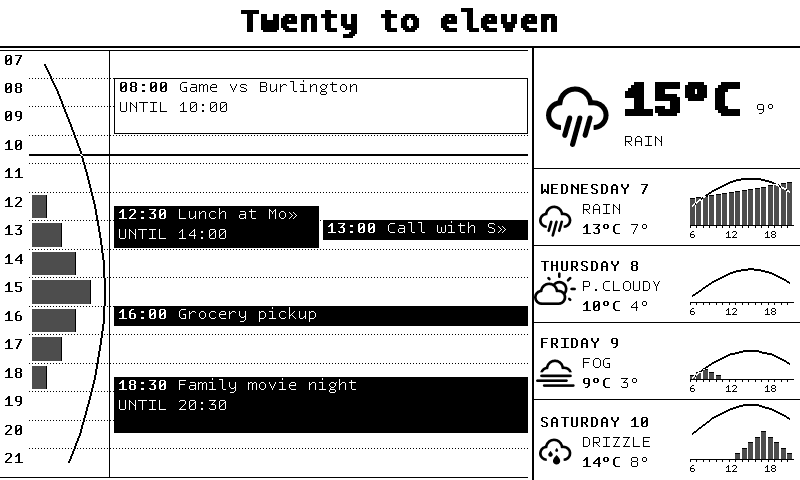
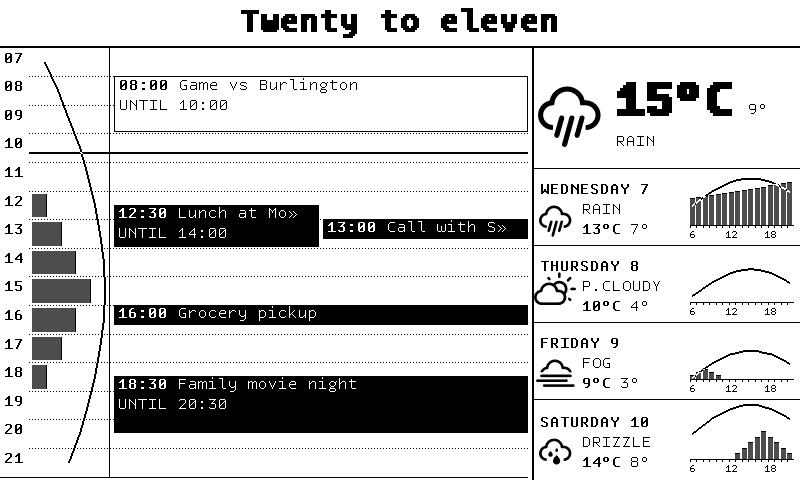
fix(day-timeline): one rule under the clock and a lined-up right column
The composed day-timeline screen drew two rules under the clock on the
left: the separator's, and the day-timeline's own solid rule at the
window's opening edge two pixels below it. The widget now rules that
edge only when its all-day strip or earlier note sits above the grid;
otherwise the grid starts at the widget's top and whatever sits above it
closes it off.

today-weather's padding now matches weather-ahead's, so stacked in the
right column its icon starts where the rows below do, as the design
draws them. Its minimum width drops from 254 to 238 px.

Claude-Session: https://claude.ai/code/session_01PesFTRe24Aa4wMGyCrq8fA

diff --git a/internal/inkwell/widgets/daytimeline/daytimeline_test.go b/internal/inkwell/widgets/daytimeline/daytimeline_test.go
@@ -570,8 +570,8 @@ func TestWidget_ListsAllDayEventsInAStripAboveTheGrid(t *testing.T) {
 				if !l.AllDay.Empty() {
 					t.Fatalf("strip %v with nothing to list", l.AllDay)
 				}
-				if l.Grid.Min.Y != testBounds.Min.Y+gridPadY {
-					t.Errorf("grid starts at %d with no strip, want %d", l.Grid.Min.Y, testBounds.Min.Y+gridPadY)
+				if l.Grid.Min.Y != testBounds.Min.Y {
+					t.Errorf("grid starts at %d with no strip, want the widget's top, %d", l.Grid.Min.Y, testBounds.Min.Y)
 				}
 				return
 			}
@@ -675,7 +675,9 @@ func sameIn(a, b *image.Paletted, r image.Rectangle) bool {
 }
 
 // Every hour in the window gets a label in the gutter and a rule across
-// the event column, and the window's last edge gets a rule too.
+// the event column, and the window's last edge gets a rule too. The
+// window's opening edge is the widget's top, ruled only when a band sits
+// above it (see TestWidget_TopEdge).
 func TestWidget_DrawsAnHourGrid(t *testing.T) {
 	tests := []struct {
 		label string
@@ -703,7 +705,7 @@ func TestWidget_DrawsAnHourGrid(t *testing.T) {
 				t.Errorf("rule between labels and events is %d/%d px", n, l.Grid.Dy())
 			}
 
-			for h := 0; h <= tt.win.EndHour-tt.win.StartHour; h++ {
+			for h := 1; h <= tt.win.EndHour-tt.win.StartHour; h++ {
 				y := tl.y(start.Add(time.Duration(h) * time.Hour))
 				if countIndexIn(frame, image.Rect(l.Events.Min.X, y, l.Events.Max.X, y+1), widget.PaperBlack) == 0 {
 					t.Errorf("no rule across the events at hour %d (y=%d)", tt.win.StartHour+h, y)
@@ -722,6 +724,58 @@ func TestWidget_DrawsAnHourGrid(t *testing.T) {
 				if countIndexIn(frame, row, widget.PaperBlack) == 0 {
 					t.Errorf("no label for hour %d", tt.win.StartHour+h)
 				}
+			}
+		})
+	}
+}
+
+// The window's opening edge gets a solid rule only when the widget has
+// its own band above the grid to close off. With nothing above, the grid
+// starts at the widget's top edge and draws no rule there: whatever sits
+// above the widget, a screen's separator or the panel's edge, already
+// closes it, and a second rule just under a separator reads as a double
+// line. The rule between the labels and the events then runs up to the
+// widget's edge, so it meets that separator.
+func TestWidget_TopEdge(t *testing.T) {
+	ruleX := testBounds.Min.X + gutterW + laneW
+	events := image.Rect(ruleX+ruleW+eventsPadX, 0, testBounds.Max.X-eventsPadX, 0)
+	tests := []struct {
+		label  string
+		events []ical.Event
+		// ruleY is the row the solid top edge rule is on, or -1 for none.
+		ruleY int
+	}{
+		{label: "nothing above the grid", ruleY: -1},
+		{
+			label:  "an earlier note above",
+			events: []ical.Event{span("Gym", at(5, 0), at(6, 0))},
+			ruleY:  testBounds.Min.Y + noteH(),
+		},
+		{
+			label:  "an all-day strip above",
+			events: []ical.Event{allDay("Car in for service")},
+			ruleY:  testBounds.Min.Y + stripH(1) + gridPadY,
+		},
+	}
+	for _, tt := range tests {
+		t.Run(tt.label, func(t *testing.T) {
+			// Late in the evening, so no now marker crosses the top.
+			w := New(testBounds, daydata.InMemory(tt.events, nil), fixedClock(at(23, 30)), defaultConfig())
+			frame := renderToFrame(t, w)
+
+			if tt.ruleY < 0 {
+				top := image.Rect(events.Min.X, testBounds.Min.Y, events.Max.X, testBounds.Min.Y+2)
+				if n := countIndexIn(frame, top, widget.PaperBlack); n != 0 {
+					t.Errorf("%d px inked across the events' top rows, want no rule", n)
+				}
+				if frame.ColorIndexAt(ruleX, testBounds.Min.Y) != widget.PaperBlack {
+					t.Errorf("rule between labels and events doesn't reach the widget's top edge")
+				}
+				return
+			}
+			row := image.Rect(testBounds.Min.X, tt.ruleY, events.Max.X, tt.ruleY+1)
+			if n := countIndexIn(frame, row, widget.PaperBlack); n != row.Dx() {
+				t.Errorf("top edge rule at y=%d is %d/%d px", tt.ruleY, n, row.Dx())
 			}
 		})
 	}
@@ -1029,9 +1083,10 @@ func TestWidget_CountsEventsOutsideTheWindow(t *testing.T) {
 			if tt.wantLater != "" && !noteIn(frame, l.Later, l.Events.Min.X, tt.wantLater) {
 				t.Errorf("no %q note below the grid", tt.wantLater)
 			}
-			// Without a note the grid takes the height, and its edge
-			// rules sit at the bounds' padding.
-			if tt.wantEarlier == "" && l.Grid.Min.Y != testBounds.Min.Y+gridPadY {
+			// Without a note the grid takes the height: it starts at
+			// the bounds' top, unruled, and ends at the bottom rule's
+			// padding.
+			if tt.wantEarlier == "" && l.Grid.Min.Y != testBounds.Min.Y {
 				t.Errorf("grid starts at %d with nothing earlier", l.Grid.Min.Y)
 			}
 			if tt.wantLater == "" && l.Grid.Max.Y != testBounds.Max.Y-gridPadY {

diff --git a/internal/inkwell/example_config_test.go b/internal/inkwell/example_config_test.go
@@ -153,6 +153,72 @@ func TestExampleConfig_DayTimelineScreen(t *testing.T) {
 	testutil.AssertGoldenPNG(t, frame)
 }
 
+// Under the clock band the left column shows one rule, the separator's,
+// as the right column does: the day-timeline draws no rule of its own
+// along its top edge when nothing of its own sits above its grid.
+func TestExampleConfig_DayTimelineScreen_OneRuleUnderTheClock(t *testing.T) {
+	_, frame := renderExampleScreen(t, "day-timeline", exampleUpstream())
+
+	for _, x := range []int{300, 700} {
+		var solid []int
+		for y := 40; y < 60; y++ {
+			if frame.ColorIndexAt(x, y) == widget.PaperBlack && frame.ColorIndexAt(x+1, y) == widget.PaperBlack {
+				solid = append(solid, y)
+			}
+		}
+		if !slices.Equal(solid, []int{46, 47}) {
+			t.Errorf("rows inked under the clock at x=%d: %v, want only the separator's [46 47]", x, solid)
+		}
+	}
+}
+
+// The right column's two widgets share a left edge: today-weather's icon
+// starts where weather-ahead's rows do, as the design draws them. Both
+// are measured on a rain icon: today's, and the first of weather-ahead's
+// four rows (a partly cloudy sun further down runs past its box).
+func TestExampleConfig_DayTimelineScreen_RightColumnLinesUp(t *testing.T) {
+	screen, frame := renderExampleScreen(t, "day-timeline", exampleUpstream())
+
+	left := map[string]int{}
+	for _, w := range screen.Widgets() {
+		b := w.Bounds()
+		switch kind := fmt.Sprintf("%T", w); kind {
+		case "*todayweather.Widget":
+			left[kind] = leftmostInk(frame, b)
+		case "*weatherahead.Widget":
+			b.Max.Y = b.Min.Y + b.Dy()/4
+			left[kind] = leftmostInk(frame, b)
+		}
+	}
+	today, ahead := left["*todayweather.Widget"], left["*weatherahead.Widget"]
+	if d := today - ahead; d < -2 || d > 2 {
+		t.Errorf("today-weather starts at x=%d, weather-ahead at x=%d; want them within 2 px", today, ahead)
+	}
+}
+
+// leftmostInk is the first column of r with anything but paper in it,
+// leaving out rules drawn across r's whole width, or r.Max.X when there
+// is none.
+func leftmostInk(frame *image.Paletted, r image.Rectangle) int {
+	left := r.Max.X
+	for y := r.Min.Y; y < r.Max.Y; y++ {
+		first, black := r.Max.X, 0
+		for x := r.Min.X; x < r.Max.X; x++ {
+			switch frame.ColorIndexAt(x, y) {
+			case widget.PaperWhite:
+				continue
+			case widget.PaperBlack:
+				black++
+			}
+			first = min(first, x)
+		}
+		if black < r.Dx() {
+			left = min(left, first)
+		}
+	}
+	return left
+}
+
 // The example rotates through the new screens, day-timeline first, and
 // each one loads with the example's bounds, tiles the panel and draws in
 // every widget. weekly-calendar is no longer part of it.

diff --git a/internal/inkwell/widgets/daytimeline/layout.go b/internal/inkwell/widgets/daytimeline/layout.go
@@ -8,8 +8,9 @@ import (
 )
 
 const (
-	// gridPadY is the paper above and below the grid when no note sits
-	// there, so the edge rules don't touch a neighbour's.
+	// gridPadY is the paper between the grid's solid edge rules and
+	// whatever sits beyond them in the widget's bounds, so a rule doesn't
+	// touch the all-day strip's text or a neighbour's rule.
 	gridPadY = 2
 	// gutterW is the hour-label column: two digits and a little paper on
 	// each side.
@@ -77,6 +78,13 @@ type layout struct {
 	Lane image.Rectangle
 	// Events is the column the blocks are drawn in.
 	Events image.Rectangle
+	// TopRule is whether the window's opening edge gets a solid rule: only
+	// when the all-day strip or the earlier note sits above the grid and
+	// needs closing off. Otherwise the grid starts at the widget's top
+	// edge with no rule, because what sits above the widget (a screen's
+	// separator, or the panel's edge) already closes it, and a second
+	// rule just under a separator reads as a double line.
+	TopRule bool
 }
 
 // computeLayout splits the widget's bounds. The all-day strip comes off
@@ -89,10 +97,15 @@ func computeLayout(bounds image.Rectangle, s sections) layout {
 		l.AllDay = image.Rect(bounds.Min.X, bounds.Min.Y, bounds.Max.X, bounds.Min.Y+stripH(s.AllDay))
 		agenda.Min.Y = l.AllDay.Max.Y
 	}
-	top, bottom := agenda.Min.Y+gridPadY, agenda.Max.Y-gridPadY
+	top, bottom := agenda.Min.Y, agenda.Max.Y-gridPadY
+	if s.AllDay > 0 {
+		top += gridPadY
+		l.TopRule = true
+	}
 	if s.Earlier {
 		l.Earlier = image.Rect(agenda.Min.X, agenda.Min.Y, agenda.Max.X, agenda.Min.Y+noteH())
 		top = l.Earlier.Max.Y
+		l.TopRule = true
 	}
 	if s.Later {
 		l.Later = image.Rect(agenda.Min.X, agenda.Max.Y-noteH(), agenda.Max.X, agenda.Max.Y)

diff --git a/internal/inkwell/widgets/daytimeline/grid.go b/internal/inkwell/widgets/daytimeline/grid.go
@@ -19,9 +19,10 @@ const (
 )
 
 // drawGrid draws the hour grid: a two-digit label for each hour in the
-// gutter, a dotted rule across the lane and events at each hour, solid
-// rules at the window's edges, and a rule down the grid between the
-// labels and lane on its left and the events on its right.
+// gutter, a dotted rule across the lane and events at each hour, a solid
+// rule at the window's end and, when a band of the widget's own sits above
+// the grid, at its start, and a rule down the grid between the labels and
+// lane on its left and the events on its right.
 //
 // When the rows are shorter than a line of text, as a whole-day window
 // makes them, every other hour is labelled so the labels don't run into
@@ -34,9 +35,12 @@ func drawGrid(frame *image.Paletted, l layout, tl timeline, win Window) {
 	}
 	for h := 0; h <= hours; h++ {
 		y := tl.y(hourAt(tl.start, h))
-		if h == 0 || h == hours {
+		switch {
+		case h == 0 && !l.TopRule:
+			// Closed off by whatever sits above the widget.
+		case h == 0 || h == hours:
 			drawkit.DrawHLine(frame, l.Grid.Min.X, l.Events.Max.X, y, widget.PaperBlack)
-		} else {
+		default:
 			for x := l.Gutter.Max.X; x < l.Events.Max.X; x += dotEvery {
 				drawkit.DrawHLine(frame, x, x+1, y, widget.PaperBlack)
 			}

diff --git a/internal/inkwell/widgets/todayweather/todayweather.go b/internal/inkwell/widgets/todayweather/todayweather.go
@@ -25,7 +25,9 @@ var _ widget.Widget = (*Widget)(nil)
 // screens read alike: a 58 px icon, the high at 3x and the low and the
 // condition at body size.
 const (
-	padX     = 14
+	// padX is weather-ahead's, so stacked in one column, as on the
+	// day-timeline screen, today's icon starts where the rows below do.
+	padX     = 6
 	padY     = 8
 	iconSize = 58
 	// iconGap is wider than today-hero's: some glyphs (partly cloudy's

diff --git a/docs/guides/configuration.md b/docs/guides/configuration.md
@@ -640,6 +640,11 @@ window are not drawn; a "+N EARLIER" note above the grid or a
 "+N LATER" note below it counts them, and each note takes height only
 when there is something to count.
 
+The grid's top edge is ruled only when the all-day strip or the
+"+N EARLIER" note sits above it. Otherwise the grid starts at the
+widget's top with no rule, so a separator placed above the widget, as
+under the clock band on the day-timeline screen, is the only line there.
+
 Between the hour labels and the events runs the weather lane: today's
 forecast for the same hours, one row per hour of the window. The chance
 of precipitation each hour is a bar growing to the right, and the
@@ -689,7 +694,7 @@ the condition name beneath. It is today-hero's weather block at the same
 sizes, so the two read alike. It draws no events and no chart, and has
 its own refresh cadence, separate from the widgets around it.
 
-It needs at least 254 × 108 px, the room for the widest high there is
+It needs at least 238 × 108 px, the room for the widest high there is
 ("-12°C"). Below that it logs and draws nothing rather than spilling
 onto its neighbours. When the high and low are both wide, the low takes
 its own line under the high. A third of the panel's width, 266 px, is
@@ -963,7 +968,7 @@ so it is the one shown at startup, and the one that stays if you remove
 |--------|--------|-----------|-------|
 | [`fuzzy_clock`](#fuzzy_clock) | `[0, 0, 800, 46]` | `"5m"` | `scale: 2`, the largest whose longest phrase fits 800 px. |
 | [`separator`](#separator) | `[0, 46, 800, 48]` | `"static"` | 2 px under the clock band. |
-| [`day-timeline`](#day-timeline) | `[0, 48, 532, 480]` | `"15m"` | The agenda and the weather lane, 07:00–22:00 by default. |
+| [`day-timeline`](#day-timeline) | `[0, 48, 532, 480]` | `"15m"` | The agenda and the weather lane, 07:00–22:00 by default. With no all-day strip or earlier note showing it draws no rule along its top, so the separator above is the only one. |
 | [`separator`](#separator) | `[532, 48, 534, 480]` | `"static"` | `orientation: vertical`, as heavy as the rule under the clock. |
 | [`today-weather`](#today-weather) | `[534, 48, 800, 168]` | `"1h"` | Hourly also turns the day over at midnight. |
 | [`separator`](#separator) | `[534, 168, 800, 169]` | `"static"` | 1 px, matching the rules between weather-ahead's rows; weather-ahead draws none above its first. |
